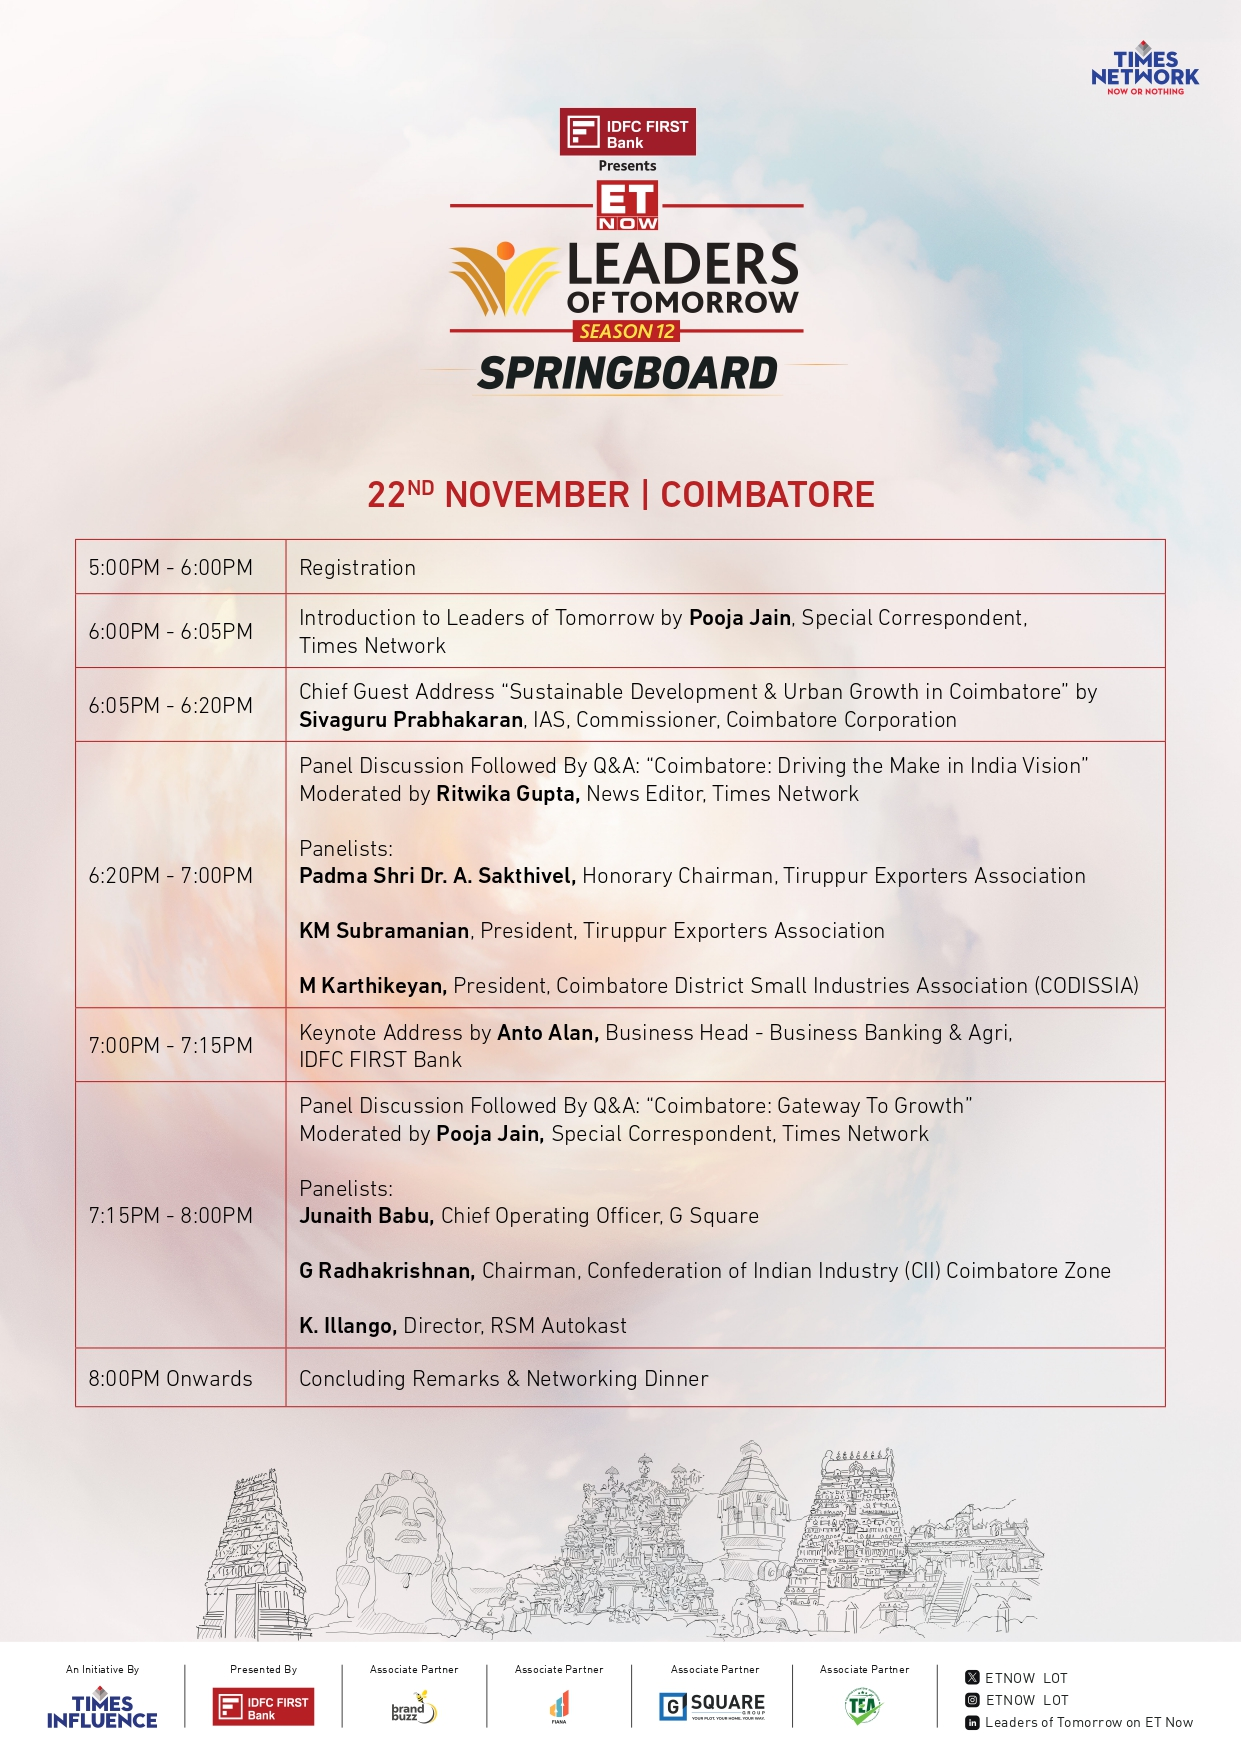
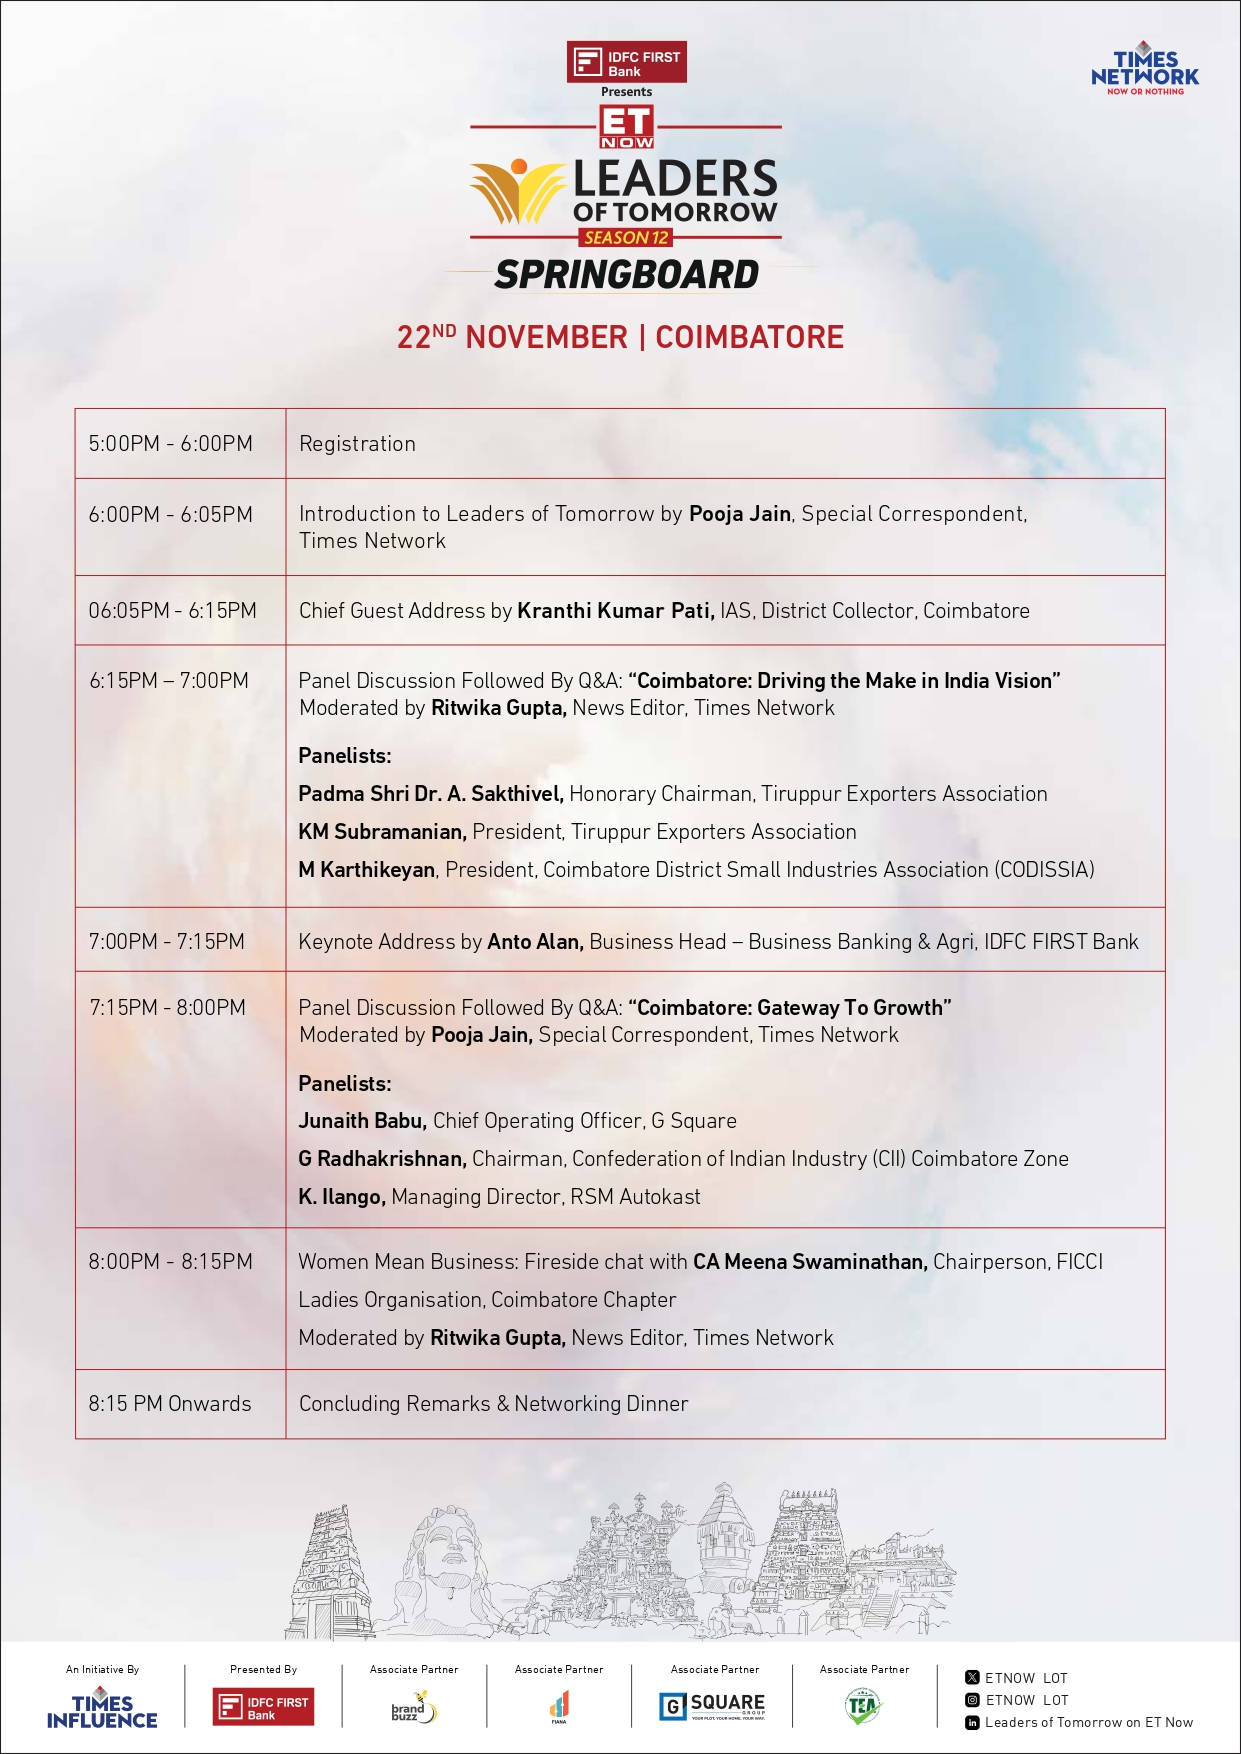
Coimbatore Changes

Changed region(s): [[0.0612, 0.0, 0.9186, 0.9544], [0.0612, 0.4926, 0.2143, 0.6157], [0.0612, 0.6773, 0.2143, 0.7389]]

diff --git a/application/views/main/city/coimbatore.php b/application/views/main/city/coimbatore.php
@@ -61,25 +61,25 @@
 			</div>
 		</div>
 	</section>
-	<section class="section pb-0 d-none">
+	<section class="section pb-0">
 		<div class="container">
 			<div class="row align-items-center">
 				<div class="col-xl-5 col-lg-6 col-md-6 col-12">
 					<div class="media-content" data-aos="fade-right">
 						<!--<iframe class="w-100" src="https://www.youtube.com/watch?v=4yf12kND24M" title="YouTube video player" frameborder="0" allow="accelerometer; autoplay; clipboard-write; encrypted-media; gyroscope; picture-in-picture; web-share" referrerpolicy="strict-origin-when-cross-origin" allowfullscreen></iframe>-->
-						<iframe class="w-100" src="https://www.youtube.com/embed/wDNEfmYn9Lc?si=sagfEyPjSQ7thw3x" title="YouTube video player" frameborder="0" allow="accelerometer; autoplay; clipboard-write; encrypted-media; gyroscope; picture-in-picture; web-share" referrerpolicy="strict-origin-when-cross-origin" allowfullscreen></iframe>
+						<iframe class="w-100" src="https://www.youtube.com/embed/Ol2qx_14tG8?si=BE_ccMKV9Rh-GMoS" title="YouTube video player" frameborder="0" allow="accelerometer; autoplay; clipboard-write; encrypted-media; gyroscope; picture-in-picture; web-share" referrerpolicy="strict-origin-when-cross-origin" allowfullscreen></iframe>
 					</div>
 				</div>
 				<div class="col-xl-7 col-lg-6 col-12">
 					<div class="section-title" data-aos="fade-left">
-						<h2><span>Driving Global Blueprint for Industrial Excellence</span></h2>
+						<h2><span>Coimbatore: Crafting Futures, Empowering Growth</span></h2>
 					</div>
 					<div class="desc">
 						<p data-aos="fade-left" data-aos-delay="400">
-							'The Detroit of India', Chennai is well on its way to becoming a key industrial hub in South India. Whether it is strategic location by the Coromandel Coast that boasts excellent port accessibility or the robust ecosystem of MSMEs supported by a diverse workforce and innovative government initiatives, there have been multiple factors that have fueled the city's rise as an industrial hub.
+							Coimbatore, known as the Manchester of South India, blends traditional textile craftsmanship with cutting-edge engineering & automobile manufacturing. The city stands as a beacon of innovation with thriving educational institutions, SEZ-driven economic activities and its focus on women-led enterprises.
 						</p>
 						<p data-aos="fade-left" data-aos-delay="400">
-							To explore how Chennai is powering India's industrial growth engine, join the <strong class="text-red">#LOT Springboard Chennai</strong>.
+							Reflecting the city's rich industrial heritage and multi-dimensional development, we're all set to make a stop at the Leaders of Tomorrow Coimbatore Springboard.
 						</p>
 						<!-- <a data-aos="fade-left" data-aos-delay="500" href="https://www.youtube.com/watch?v=JhaCnMvPW-k&list=PL51KTBvlQFEGwdrPMKBpBFIPGKTtbcz3M" class="btn btn-yellow" target="_blank">View All Episodes</a> -->
 					</div>
@@ -216,7 +216,7 @@
 				<div class="col-12">
 					<div class="swiper gallerySwiper">
 						<div class="gallery-masonry swiper-wrapper">
-						<?php for ($i = 1; $i <= 5; $i++) : ?>
+							<?php for ($i = 1; $i <= 5; $i++) : ?>
 								<div class="swiper-slide tile gallery-tile mb-2" data-aos="fade-left" data-aos-delay="<?= $i * 10 ?>">
 									<figure>
 										<picture>

diff --git a/application/controllers/main/CityController.php b/application/controllers/main/CityController.php
@@ -246,23 +246,25 @@ class CityController extends BaseController
 						[
 							'text' => 'Associate Partner',
 							'logo' => 'TEA.png',
+							'url' => "https://www.tea-india.org/"
 						],
 						[
 							'text' => 'Associate Partner',
 							'logo' => 'GSquare.png',
+							'url' => "https://www.gsquarehousing.com/"
 						],
 					],
 					'speakers' => [
+						[
+							'photo' => "Kranthi_Kumar_Pati.png",
+							'name' => "Kranthi Kumar Pati",
+							'description' => "IAS, District Collector, Coimbatore",
+						],
 						[
 							'photo' => "Anto_Alan.png",
 							'name' => "Anto Alan",
 							'description' => "Business Head, Business Banking & Agri, IDFC FIRST Bank",
 						],
-						// [
-						// 	'photo' => "",
-						// 	'name' => "Anto Alan",
-						// 	'description' => "Business Head, Business Banking & Agri, IDFC FIRST Bank",
-						// ],
 						// [
 						// 	'photo' => "",
 						// 	'name' => "Dr Srimathy Kesan",
@@ -283,26 +285,36 @@ class CityController extends BaseController
 							'name' => "KM Subramanian",
 							'description' => "President, Tirupur Exporters Association",
 						],
+						// [
+						// 	'photo' => "M_Karthikeyan.png",
+						// 	'name' => " M. Karthikeyan",
+						// 	'description' => "President, Codissia",
+						// ],
+						[
+							'photo' => "Junaith_Baba.png",
+							'name' => "Junaith Babu",
+							'description' => "COO, G SQUARE",
+						],
+						[
+							'photo' => "CA_Meena.png",
+							'name' => "CA Meena Swaminathan",
+							'description' => "Chairperson, FICCI Ladies Organisation, Coimbatore Chapter",
+						],
 						[
 							'photo' => "M_Karthikeyan.png",
 							'name' => " M. Karthikeyan",
 							'description' => "President, Codissia",
 						],
-						// [
-						// 	'photo' => "",
-						// 	'name' => "Dr Manimekalai Mohan",
-						// 	'description' => "Founder & Managing Trustee, SSVM Group of Institutions",
-						// ],
-						// [
-						// 	'photo' => "",
-						// 	'name' => "Junaith Baba",
-						// 	'description' => "COO, G SQUARE",
-						// ],
-						// [
-						// 	'photo' => "",
-						// 	'name' => "G Radhakrishnan",
-						// 	'description' => "Chairman, CII Coimbatore Zone",
-						// ],
+						[
+							'photo' => "G_Radhakrishnan.png",
+							'name' => "G Radhakrishnan",
+							'description' => "Chairman, CII Coimbatore Zone",
+						],
+						[
+							'photo' => "K_Illango.png",
+							'name' => "K. Ilango",
+							'description' => "Managing Director, RSM Autokast Ltd",
+						],
 						// [
 						// 	'photo' => "",
 						// 	'name' => "",
@@ -323,10 +335,12 @@ class CityController extends BaseController
 						[
 							'text' => 'Associate Partner',
 							'logo' => 'TEA.png',
+							'url' => "",
 						],
 						[
 							'text' => 'Associate Partner',
 							'logo' => 'GSquare.png',
+							'url' => "",
 						],
 					],
 					'speakers' => [

diff --git a/application/views/components/theme/partials/partners/layout-01.php b/application/views/components/theme/partials/partners/layout-01.php
@@ -2,15 +2,14 @@
 	<div class="partners-nav row m-0 g-3 justify-content-center justify-content-lg-evenly">
 		<?php foreach ($partners as $key => $partner) : ?>
 			<div class="col-md-auto col-sm-6 col-12" data-aos="fade-up" data-aos-delay="<?= 100 * $key ?>">
-				<a class="nav-link text-dark text-center">
+				<div class="nav-link text-dark text-center">
 					<p class="mb-3">
 						<?= $partner['text'] ?>
-
 					</p>
 					<div class="px-3">
-						<a href="<?= $partner['url'] ?>"><img src="<?= base_url('assets/images/cities/' . strtolower($city) . '/partners/') . $partner['logo'] ?>" alt="<?= $partner['text'] ?>" height="80"></a>
+						<a href="<?= $partner['url'] ?>" target="_blank"><img src="<?= base_url('assets/images/cities/' . strtolower($city) . '/partners/') . $partner['logo'] ?>" alt="<?= $partner['text'] ?>" height="80"></a>
 					</div>
-				</a>
+				</div>
 			</div>
 		<?php endforeach ?>
 	</div>

diff --git a/application/config/config.php b/application/config/config.php
@@ -24,8 +24,8 @@ defined('BASEPATH') OR exit('No direct script access allowed');
 |
 */
 $config['base_url'] = 'https://test.apogeedigitech.in/times/leaders-of-tomorrow/';
-$config['base_url'] = 'http://localhost/times-now/leaders-of-tomorrow/';
 $config['base_url'] = 'https://leadersoftomorrow.co.in/';
+$config['base_url'] = 'http://localhost/times-now/leaders-of-tomorrow/';
 
 /*
 |--------------------------------------------------------------------------

diff --git a/application/config/database.php b/application/config/database.php
@@ -70,8 +70,8 @@ defined('BASEPATH') OR exit('No direct script access allowed');
 | The $query_builder variables lets you determine whether or not to load
 | the query builder class.
 */
-$active_group = 'default';
 $active_group = 'production';
+$active_group = 'default';
 $query_builder = TRUE;
 
 $db['default'] = array(
